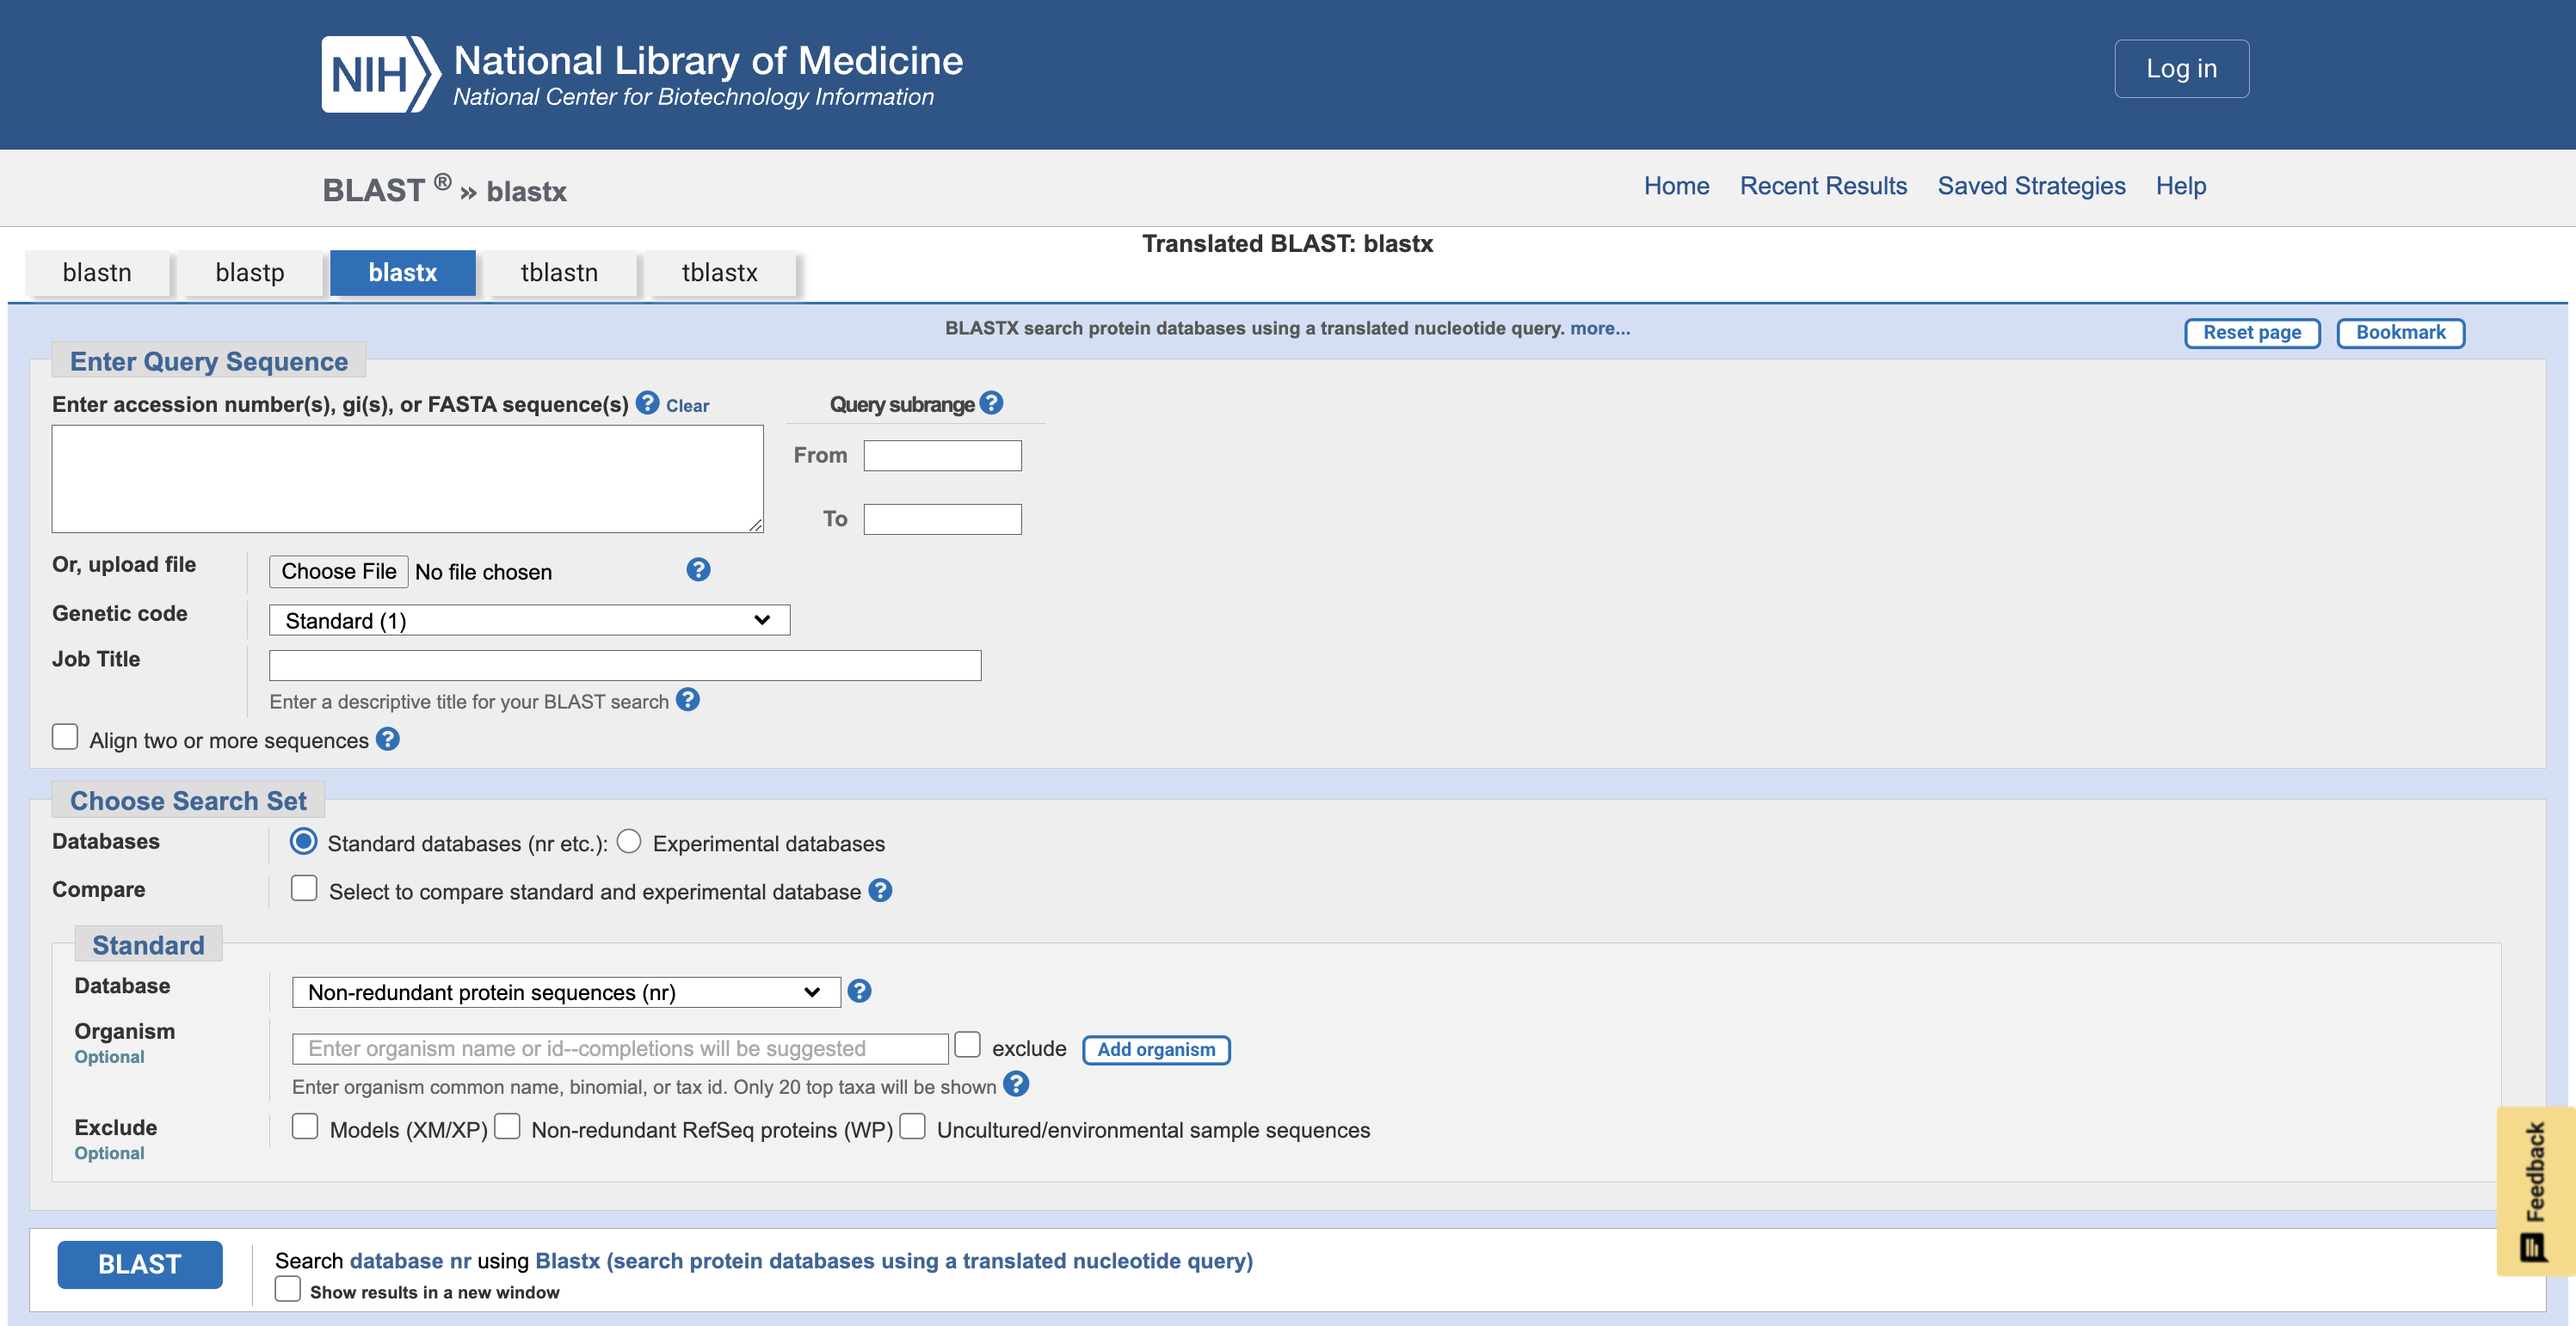
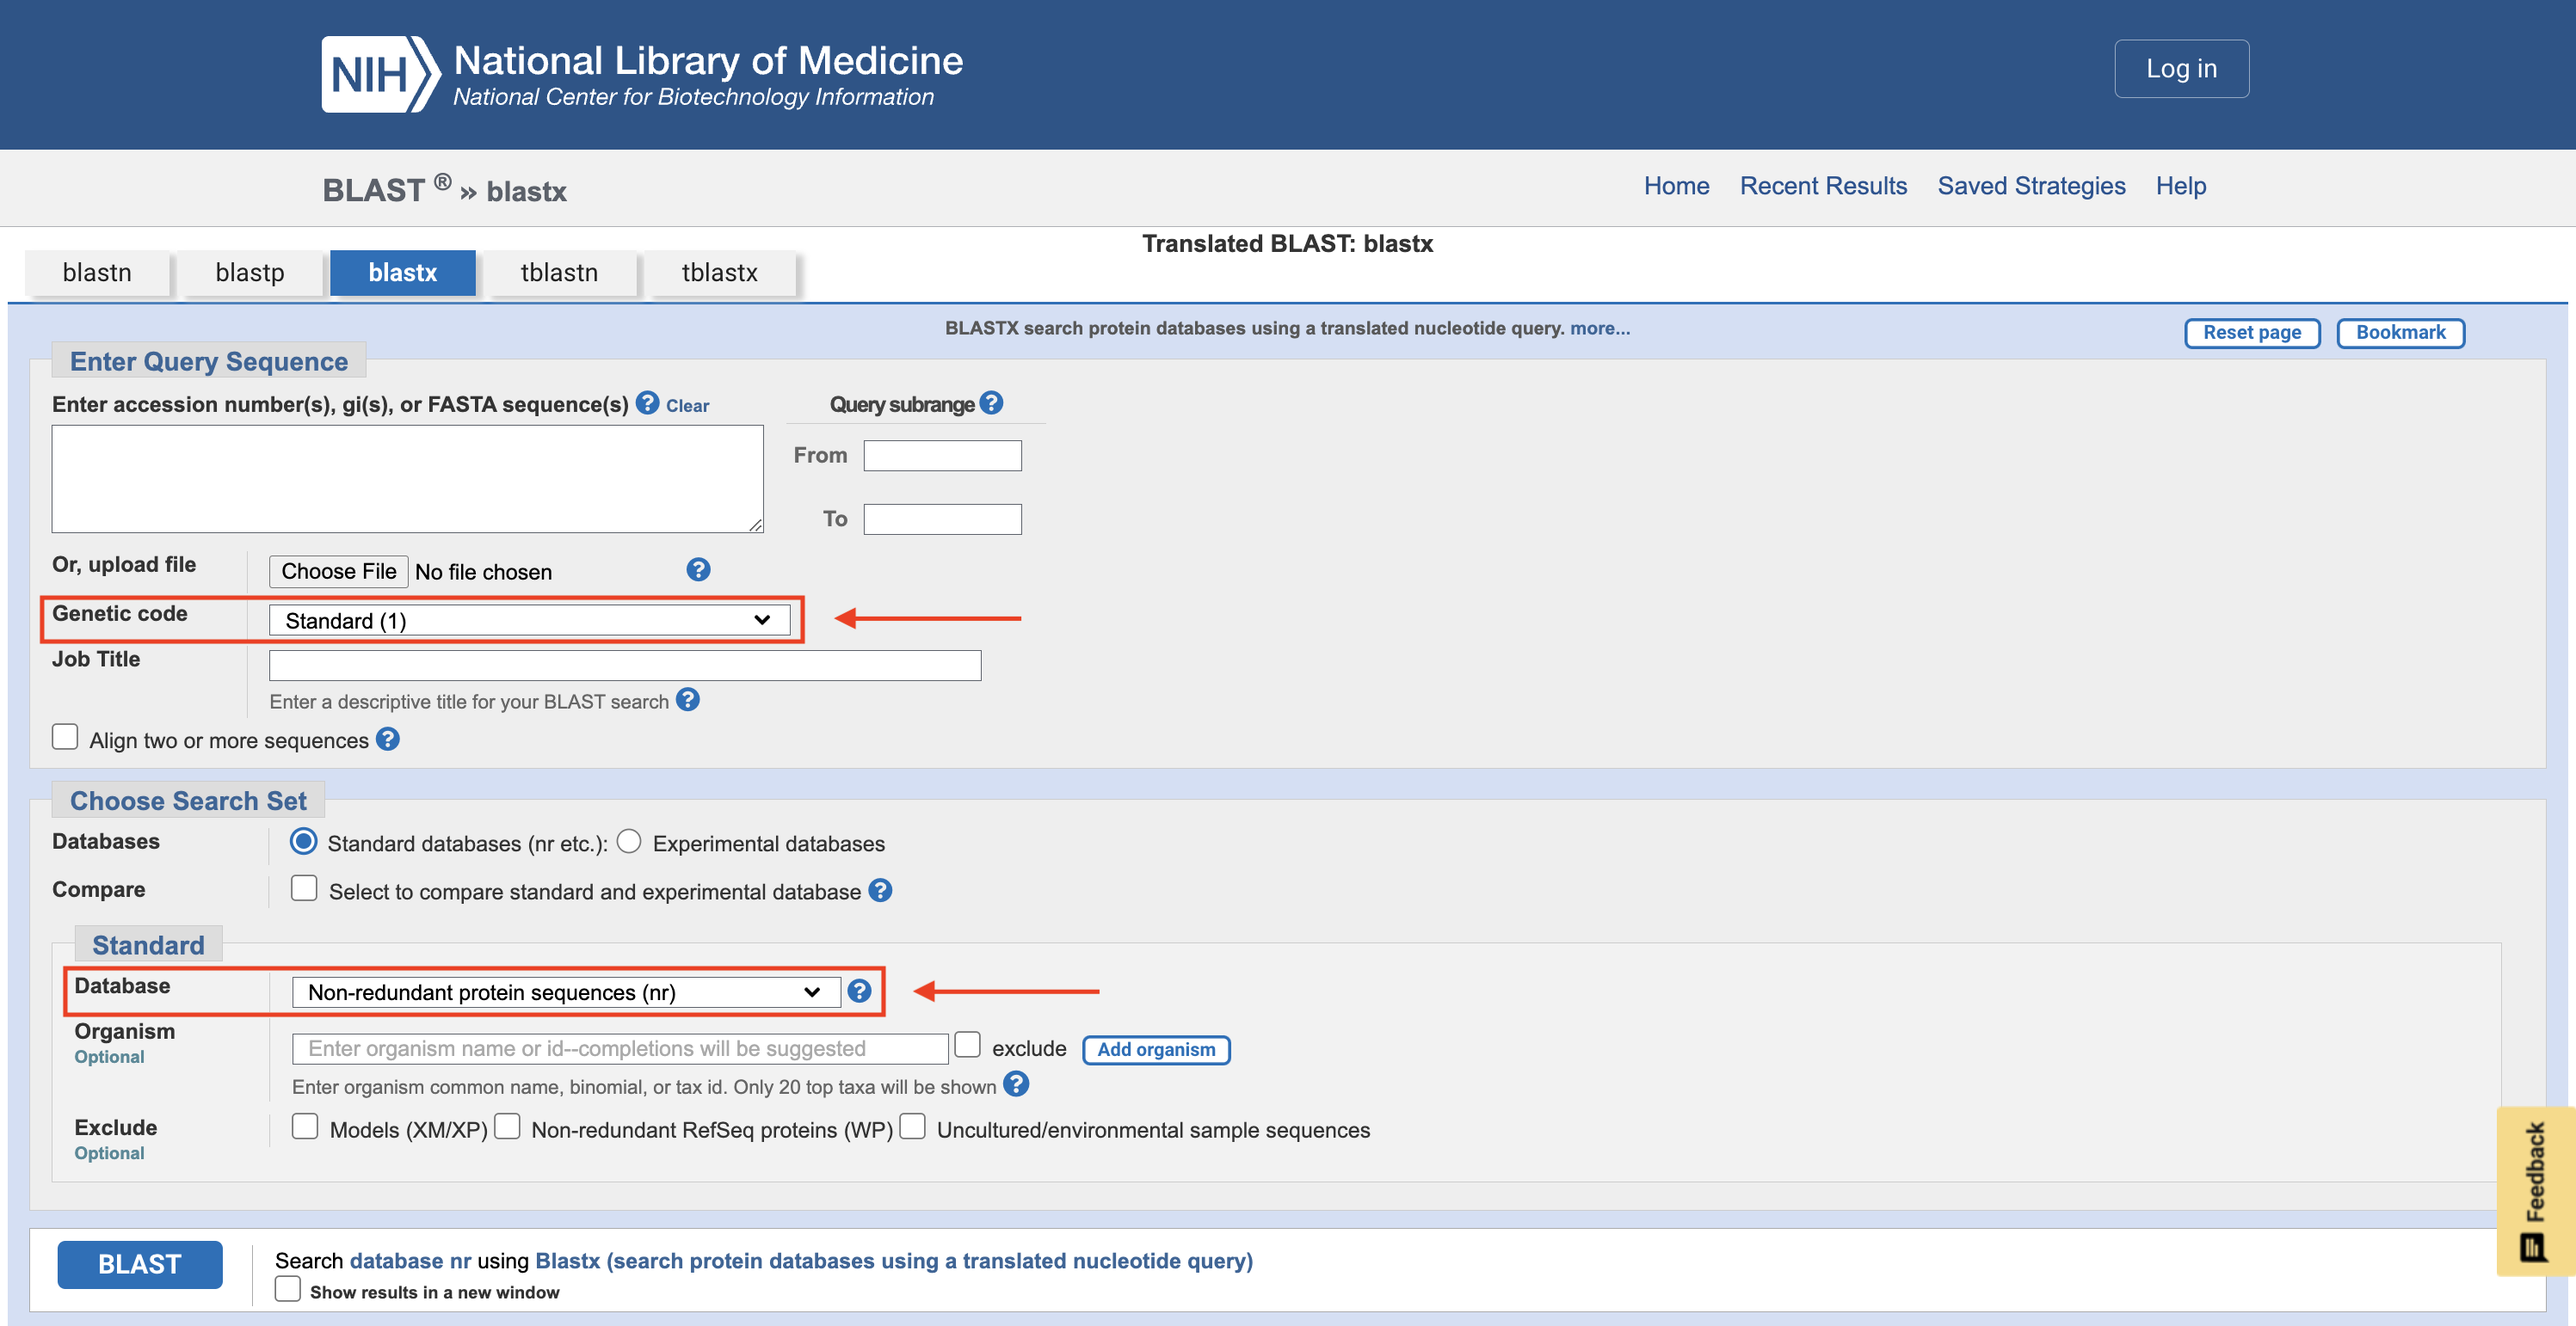
Added BLASTx tutorial and supporting images

Changed region(s): [[0.0311, 0.716, 0.3727, 0.7782], [0.0311, 0.4358, 0.3417, 0.4981]]

diff --git a/tools/BLASTx.md b/tools/BLASTx.md
@@ -64,23 +64,23 @@ about the sequence in the database.
 
 3. Click on _blastx_ after navigating to the [BLAST home page](https://blast.ncbi.nlm.nih.gov/Blast.cgi).
 
-![](images/1-BLAST home.png)
+![](img/BLASTx/1-BLAST home.png)
 
 4. Paste the nucleotide sequence into the query box.
 5. Leaving all settings to default, click _BLAST_.
 - This step is usually time consuming, since it depends on the queue and internet speed.
 
-![](images/2-blastx.png)
+![](img/BLASTx/2-blastx.png)
 
 6. Select a protein hit to view its alignment to our protein.
 - To understand how to biologically interpret each of the columns in the output
 table, refer to the _Output_ section at the start of the tutorial.
 
-![](images/3-hit table.png)
+![](img/BLASTx/3-hit table.png)
 
 - Scroll down to view the complete alignment.
 
-![](images/4-hit alignment.png)
+![](img/BLASTx/4-hit alignment.png)
 
 - We have determined that our sequence of interest encodes the SARS-CoV-2 surface
 glycoprotein!
